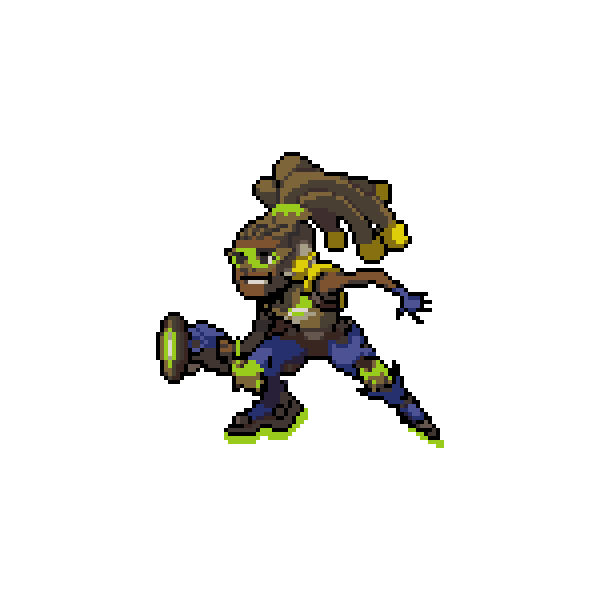
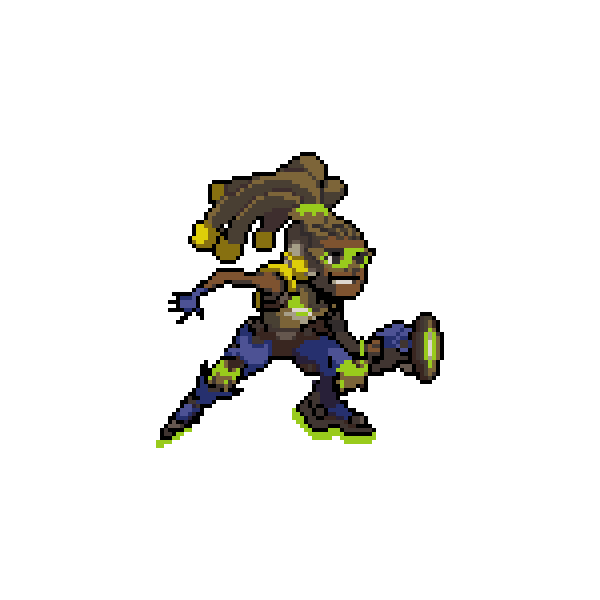
more style changes

Changed region(s): [[0.24, 0.24, 0.75, 0.75]]

diff --git a/index.html b/index.html
@@ -70,7 +70,9 @@
 							<div class="col-xs-6 quad2 player2_charStatArea">		<!--player2_charStatArea overall (quad2)-->
 								<div class="col-sm-8 col-sm-offset-3 player2_charStats">	<!--player 2 character status display main area-->
 									<div class="col-xs-12 text-left player2_currentChar_nameArea">
-										<h3 class="player2_currentChar_name">character name</h3>
+										<h3 class="player2_currentChar_name hidden-xs hidden-sm">character name</h3>
+										<h4 class="player2_currentChar_name visible-sm">character name h4</h4>
+										<h5 class="player2_currentChar_name visible-xs">character name h5</h5>
 									</div>
 									<div class="col-xs-12 text-center player2_currentChar_hpArea">
 										<div class="row">
@@ -90,14 +92,20 @@
 									</div>
 								</div>
 							</div>		<!--end of player2_charStatArea overall (quad2)-->
-							<div class="col-xs-6 quad1 player2_charImg">quad 1</div>
-						</div>
+							<div class="col-xs-6 quad1 player2_charImgArea">
+								<div class="col-sm-12 col-md-6 col-md-offset-3 player2_charImg"></div>
+							</div>
+						</div>	<!--end of quadUpper-->
 						<div class="col-xs-12 quadLower">
-							<div class="col-xs-6 quad3 player1_charImg">quad 3</div>
+							<div class="col-xs-6 quad3 player1_charImgArea">
+								<div class="col-sm-12 col-md-6 col-md-offset-3 player1_charImg"></div>
+							</div>
 							<div class="col-xs-6 quad4 player1_charStatArea">	<!--player1_charStatArea overall (quad4)-->
 								<div class="col-sm-8 col-sm-offset-1 player1_charStats">	<!--player 1 character status display main area-->
 									<div class="col-xs-12 text-left player1_currentChar_nameArea">
-										<h3 class="player1_currentChar_name">character name</h3>
+										<h3 class="player1_currentChar_name hidden-xs hidden-sm">character name</h3>
+										<h4 class="player1_currentChar_name visible-sm">character name h4</h4>
+										<h5 class="player1_currentChar_name visible-xs">character name h5</h5>
 									</div>
 									<div class="col-xs-12 text-center player1_currentChar_hpArea">
 										<div class="row">
@@ -117,7 +125,7 @@
 									</div>
 								</div>		<!--end of player 1 char stats main display area-->
 							</div>	<!--end of player1_charStatArea overall (quad4)-->
-						</div>
+						</div>	<!--end of quadLower-->
 					</div>
 					<div class="row gameBodyConsole">
 						<div class="col-sm-11 console">

diff --git a/in_it/style.css b/in_it/style.css
@@ -176,6 +176,23 @@ html,body{
 	height: 50%;
 	border: 1px solid red;
 }
+.player2_charImg{
+	height: 100%;
+	background-image: url(../images/charMain/genji.png);
+	background-repeat: no-repeat;
+	background-position: center;
+	background-size: cover;
+	transform: rotateY(180deg);
+	border: 1px solid red;
+}
+.player1_charImg{
+	height: 100%;
+	background-image: url(../images/charMain/hanzo.png);
+	background-repeat: no-repeat;
+	background-position: center;
+	background-size: cover;
+	border: 1px solid red;
+}
 .player1_currentChar_nameArea, .player1_currentChar_hpArea{
 	height: 50%;
 	border: 1px solid red;
